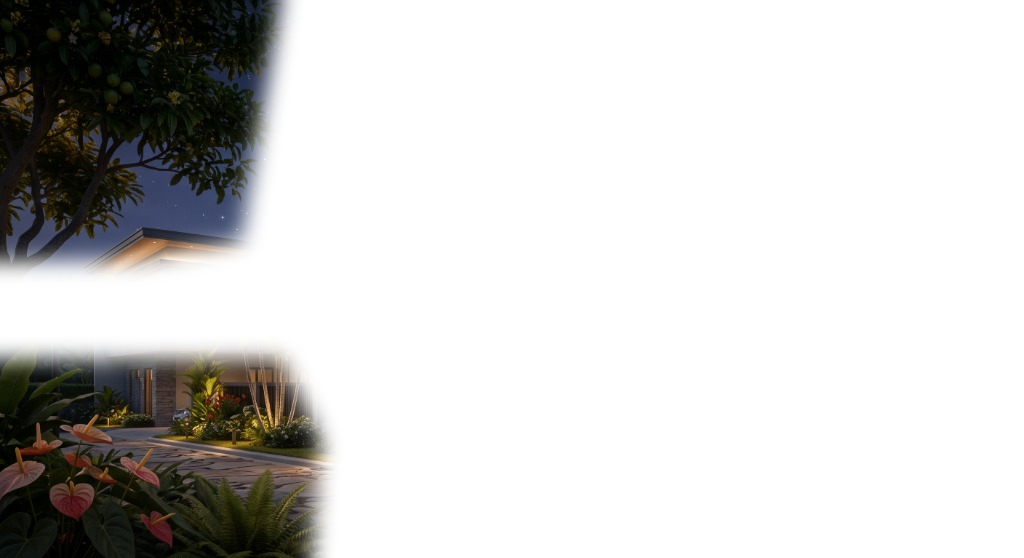
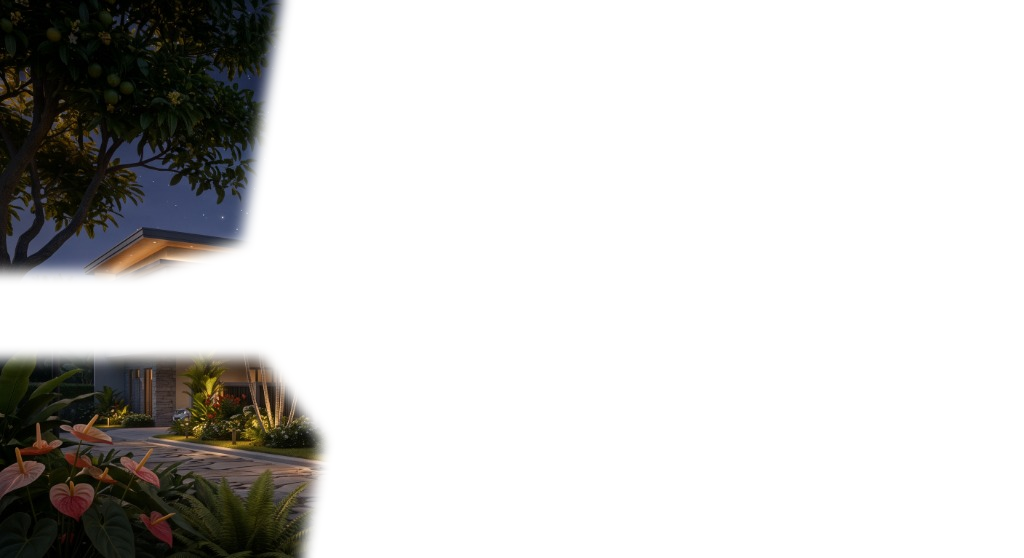
feat(ui): add clean inpainted background plate, dynamic DoF blur, and volumetric bloom

Changed region(s): [[0.0, 0.6093, 0.3438, 1.0], [0.0, 0.3961, 0.25, 0.5179], [0.2188, 0.0, 0.2812, 0.3351]]

diff --git a/frontend/src/components/ui/ParallaxMultiVectorHero.jsx b/frontend/src/components/ui/ParallaxMultiVectorHero.jsx
@@ -4,12 +4,12 @@ import Button from './Button';
 import StarTwinkleCanvas from './StarTwinkleCanvas';
 import VectorHUDOverlay from './VectorHUDOverlay';
 
-// Import 2.5D depth layers and Nano Banana transition frames
+// Import 2.5D depth layers, clean plate, and Nano Banana transition frames
 import layerSky from '../../assets/parallax/layer-sky.png';
-import layerVillas from '../../assets/parallax/layer-villas.png';
-import layerGround from '../../assets/parallax/layer-ground.png';
+import layerVillasClean from '../../assets/parallax/layer-villas-clean.jpg';
 import layerFgLeft from '../../assets/parallax/layer-foreground-left.png';
 import layerFgRight from '../../assets/parallax/layer-foreground-right.png';
+import layerHeadlightBloom from '../../assets/parallax/layer-headlight-bloom.png';
 import layerCloseUp from '../../assets/parallax/layer-close-up.jpg';
 import layerInterior from '../../assets/parallax/layer-interior.jpg';
 
@@ -48,7 +48,7 @@ export default function ParallaxMultiVectorHero({
     offset: ['start start', 'end end']
   });
 
-  // Layer Transforms on Scroll (Scene 1: Wide Enclave)
+  // Layer Transforms on Scroll (Scene 1: Wide Enclave Unobstructed)
   const skyY = useTransform(scrollYProgress, [0, 0.6], [0, -60]);
   const skyScale = useTransform(scrollYProgress, [0, 0.6], [1, 1.08]);
 
@@ -56,20 +56,23 @@ export default function ParallaxMultiVectorHero({
   const villasScale = useTransform(scrollYProgress, [0, 0.45], [1, 1.15]);
   const wideVillasOpacity = useTransform(scrollYProgress, [0.32, 0.48], [1, 0]);
 
-  const groundY = useTransform(scrollYProgress, [0, 0.45], [0, 45]);
-  const groundScale = useTransform(scrollYProgress, [0, 0.45], [1, 1.18]);
-  const wideGroundOpacity = useTransform(scrollYProgress, [0.32, 0.48], [1, 0]);
-
-  // Lateral Multi-Vector Parting for Foreground Elements
-  const fgLeftX = useTransform(scrollYProgress, [0.15, 0.6], [0, -260]);
+  // Lateral Multi-Vector Parting & Dynamic Depth-of-Field for Foreground
+  const fgLeftX = useTransform(scrollYProgress, [0.15, 0.6], [0, -280]);
   const fgLeftY = useTransform(scrollYProgress, [0.15, 0.6], [0, 90]);
-  const fgLeftScale = useTransform(scrollYProgress, [0.15, 0.6], [1, 1.3]);
+  const fgLeftScale = useTransform(scrollYProgress, [0.15, 0.6], [1, 1.35]);
   const fgLeftOpacity = useTransform(scrollYProgress, [0.35, 0.6], [1, 0]);
 
-  const fgRightX = useTransform(scrollYProgress, [0.15, 0.6], [0, 260]);
+  const fgRightX = useTransform(scrollYProgress, [0.15, 0.6], [0, 280]);
   const fgRightY = useTransform(scrollYProgress, [0.15, 0.6], [0, 70]);
-  const fgRightScale = useTransform(scrollYProgress, [0.15, 0.6], [1, 1.25]);
+  const fgRightScale = useTransform(scrollYProgress, [0.15, 0.6], [1, 1.30]);
   const fgRightOpacity = useTransform(scrollYProgress, [0.35, 0.6], [1, 0]);
+
+  // Dynamic Depth-of-Field Bokeh Blur: as flowers come close to lens, they blur
+  const fgBlurValue = useTransform(scrollYProgress, [0.15, 0.45], [0, 6]);
+  const fgBlurFilter = useTransform(fgBlurValue, (v) => prefersReducedMotion ? 'none' : `blur(${v}px)`);
+
+  // Volumetric Headlight & Sconce Lighting Bloom
+  const headlightBloomOpacity = useTransform(scrollYProgress, [0, 0.25, 0.45], [0.6, 1, 0]);
 
   // Transition Stage 2: Close-up Grand Entrance Terrace
   const closeUpOpacity = useTransform(scrollYProgress, [0.30, 0.46, 0.66, 0.76], [0, 1, 1, 0]);
@@ -158,7 +161,7 @@ export default function ParallaxMultiVectorHero({
             <div className="absolute bottom-[20%] right-[-5%] w-[40%] h-[50%] bg-[#FB8E5D]/15 blur-[120px] rounded-full mix-blend-screen pointer-events-none" />
           </motion.div>
 
-          {/* 2. LAYER VILLAS (WIDE MIDGROUND) */}
+          {/* 2. LAYER VILLAS & DRIVEWAY CLEAN INPAINTED PLATE (UNOBSTRUCTED) */}
           <motion.div
             style={{
               y: prefersReducedMotion ? 0 : villasY,
@@ -169,26 +172,26 @@ export default function ParallaxMultiVectorHero({
             className="absolute inset-0 w-full h-full z-[2] pointer-events-none transform-gpu will-change-transform"
           >
             <img
-              src={layerVillas}
-              alt="Illuminated Modern Duplexes"
+              src={layerVillasClean}
+              alt="Illuminated Modern Duplexes and Continuous Driveway"
               className="w-full h-full object-cover object-center"
             />
           </motion.div>
 
-          {/* 3. LAYER GROUND & HARDSCAPE */}
+          {/* 3. VOLUMETRIC HEADLIGHT BLOOM LAYER (ADDITIVE SCREEN BLEND) */}
           <motion.div
             style={{
-              y: prefersReducedMotion ? 0 : groundY,
-              scale: prefersReducedMotion ? 1 : groundScale,
+              opacity: prefersReducedMotion ? 0.4 : headlightBloomOpacity,
+              scale: prefersReducedMotion ? 1 : villasScale,
               x: prefersReducedMotion ? 0 : midTiltX,
-              opacity: prefersReducedMotion ? 1 : wideGroundOpacity
+              y: prefersReducedMotion ? 0 : villasY
             }}
-            className="absolute inset-0 w-full h-full z-[2] pointer-events-none transform-gpu will-change-transform"
+            className="absolute inset-0 w-full h-full z-[2] pointer-events-none mix-blend-screen transform-gpu will-change-transform"
           >
             <img
-              src={layerGround}
-              alt="Cobblestone Hardscape Driveway"
-              className="w-full h-full object-cover object-center"
+              src={layerHeadlightBloom}
+              alt="Volumetric Car Headlight Rays"
+              className="w-full h-full object-cover object-center opacity-80"
             />
           </motion.div>
 
@@ -233,7 +236,7 @@ export default function ParallaxMultiVectorHero({
           {/* 6. ARCHITECTURAL VECTOR HUD */}
           <VectorHUDOverlay opacity={prefersReducedMotion ? 0.8 : hudOpacity} />
 
-          {/* 7. FOREGROUND LEFT (Dahlia Street Sign & Anthurium Flora) */}
+          {/* 7. FOREGROUND LEFT WITH DYNAMIC DEPTH-OF-FIELD (Dahlia Street Sign & Anthurium Flora) */}
           <motion.div
             style={{
               x: prefersReducedMotion ? 0 : fgLeftX,
@@ -241,7 +244,8 @@ export default function ParallaxMultiVectorHero({
               scale: prefersReducedMotion ? 1 : fgLeftScale,
               opacity: prefersReducedMotion ? 1 : fgLeftOpacity,
               translateX: prefersReducedMotion ? 0 : fgTiltX,
-              translateY: prefersReducedMotion ? 0 : fgTiltY
+              translateY: prefersReducedMotion ? 0 : fgTiltY,
+              filter: fgBlurFilter
             }}
             className="absolute inset-0 w-full h-full z-[5] pointer-events-none transform-gpu will-change-transform"
           >
@@ -252,7 +256,7 @@ export default function ParallaxMultiVectorHero({
             />
           </motion.div>
 
-          {/* 8. FOREGROUND RIGHT (Palms & Boundary Fence) */}
+          {/* 8. FOREGROUND RIGHT WITH DYNAMIC DEPTH-OF-FIELD (Palms & Boundary Fence) */}
           <motion.div
             style={{
               x: prefersReducedMotion ? 0 : fgRightX,
@@ -260,7 +264,8 @@ export default function ParallaxMultiVectorHero({
               scale: prefersReducedMotion ? 1 : fgRightScale,
               opacity: prefersReducedMotion ? 1 : fgRightOpacity,
               translateX: prefersReducedMotion ? 0 : fgTiltX,
-              translateY: prefersReducedMotion ? 0 : fgTiltY
+              translateY: prefersReducedMotion ? 0 : fgTiltY,
+              filter: fgBlurFilter
             }}
             className="absolute inset-0 w-full h-full z-[5] pointer-events-none transform-gpu will-change-transform"
           >

diff --git a/scripts/generate_parallax_layers.py b/scripts/generate_parallax_layers.py
@@ -3,111 +3,54 @@ import numpy as np
 from PIL import Image, ImageFilter
 
 SOURCE_IMG_PATH = r"C:/Users/Win11x64/.gemini/antigravity/brain/6441366b-4b13-4099-a1c8-37b199304142/.user_uploaded/media_1789368735622.jpg"
+CLEAN_PLATE_PATH = r"frontend/src/assets/parallax/layer-villas-clean.jpg"
 OUTPUT_DIR = os.path.join("frontend", "src", "assets", "parallax")
-
-def create_feathered_mask(shape, polygon_coords=None, bbox=None, feather_radius=12):
-    """Creates a smooth alpha mask with feathered edges."""
-    h, w = shape
-    mask = Image.new("L", (w, h), 0)
-    # If bbox provided: (left, top, right, bottom)
-    if bbox:
-        from PIL import ImageDraw
-        draw = ImageDraw.Draw(mask)
-        draw.rectangle(bbox, fill=255)
-    elif polygon_coords:
-        from PIL import ImageDraw
-        draw = ImageDraw.Draw(mask)
-        draw.polygon(polygon_coords, fill=255)
-    
-    if feather_radius > 0:
-        mask = mask.filter(ImageFilter.GaussianBlur(feather_radius))
-    return mask
 
 def main():
     os.makedirs(OUTPUT_DIR, exist_ok=True)
     orig = Image.open(SOURCE_IMG_PATH).convert("RGBA")
     w, h = orig.size
-    print(f"Loaded source image: {w}x{h}")
+    print(f"Refining layers from: {w}x{h}")
 
-    # 1. LAYER SKY (Backdrop)
-    # Sky occupies upper area, softly fades around the villa roofline (Y: ~140 - 240)
-    sky_img = orig.copy()
-    sky_alpha = Image.new("L", (w, h), 0)
-    from PIL import ImageDraw
-    draw = ImageDraw.Draw(sky_alpha)
-    # Upper sky full opacity, gradual fade into horizon
-    sky_polygon = [
-        (0, 0), (w, 0),
-        (w, 240),
-        (750, 220), (600, 150), (450, 130), (250, 160), (120, 220),
-        (0, 240)
-    ]
-    draw.polygon(sky_polygon, fill=255)
-    sky_alpha = sky_alpha.filter(ImageFilter.GaussianBlur(16))
-    sky_img.putalpha(sky_alpha)
-    sky_img.save(os.path.join(OUTPUT_DIR, "layer-sky.png"), "PNG")
-    print("Saved layer-sky.png")
-
-    # 2. LAYER VILLAS (Midground Architecture)
-    # The duplex villas from Y: ~100 to Y: ~440, spanning from X: 80 to X: 940
-    villas_img = orig.copy()
-    villas_alpha = Image.new("L", (w, h), 0)
-    draw_villas = ImageDraw.Draw(villas_alpha)
-    villas_polygon = [
-        (70, 190), (260, 180), (320, 140), (450, 130), (550, 140), (760, 170), (950, 230),
-        (950, 450), (750, 460), (550, 480), (350, 480), (180, 470), (70, 460)
-    ]
-    draw_villas.polygon(villas_polygon, fill=255)
-    villas_alpha = villas_alpha.filter(ImageFilter.GaussianBlur(14))
-    villas_img.putalpha(villas_alpha)
-    villas_img.save(os.path.join(OUTPUT_DIR, "layer-villas.png"), "PNG")
-    print("Saved layer-villas.png")
-
-    # 3. LAYER GROUND (Cobblestone Driveway & Car Headlights)
-    # Lower ground plane from Y: ~370 to bottom
-    ground_img = orig.copy()
-    ground_alpha = Image.new("L", (w, h), 0)
-    draw_ground = ImageDraw.Draw(ground_alpha)
-    ground_polygon = [
-        (0, 390), (250, 380), (500, 410), (750, 400), (w, 380),
-        (w, h), (0, h)
-    ]
-    draw_ground.polygon(ground_polygon, fill=255)
-    ground_alpha = ground_alpha.filter(ImageFilter.GaussianBlur(18))
-    ground_img.putalpha(ground_alpha)
-    ground_img.save(os.path.join(OUTPUT_DIR, "layer-ground.png"), "PNG")
-    print("Saved layer-ground.png")
-
-    # 4. LAYER FOREGROUND LEFT (Dahlia Sign, Upper Branch, Anthurium Flowers)
-    # Upper-left overhanging canopy and lower-left garden + Dahlia Street post
+    # 1. FOREGROUND LEFT (Dahlia Street post, Anthuriums, Top-Left Overhang)
     fg_left_img = orig.copy()
     fg_left_alpha = Image.new("L", (w, h), 0)
-    draw_fg_left = ImageDraw.Draw(fg_left_alpha)
-    # Upper-left tree canopy
-    draw_fg_left.polygon([(0, 0), (280, 0), (240, 240), (140, 260), (0, 260)], fill=255)
-    # Lower-left Dahlia street sign & flowers
-    draw_fg_left.polygon([(0, 360), (280, 360), (320, 440), (310, 558), (0, 558)], fill=255)
-    fg_left_alpha = fg_left_alpha.filter(ImageFilter.GaussianBlur(10))
+    from PIL import ImageDraw
+    draw_l = ImageDraw.Draw(fg_left_alpha)
+    
+    # Top-left overhanging fruit branch
+    draw_l.polygon([(0, 0), (280, 0), (240, 240), (140, 270), (0, 270)], fill=255)
+    # Lower-left Dahlia street sign & red anthuriums
+    draw_l.polygon([(0, 360), (260, 360), (320, 440), (300, 558), (0, 558)], fill=255)
+    fg_left_alpha = fg_left_alpha.filter(ImageFilter.GaussianBlur(6))
     fg_left_img.putalpha(fg_left_alpha)
     fg_left_img.save(os.path.join(OUTPUT_DIR, "layer-foreground-left.png"), "PNG")
-    print("Saved layer-foreground-left.png")
+    print("Saved refined layer-foreground-left.png")
 
-    # 5. LAYER FOREGROUND RIGHT (Low Tropical Shrubs, Palm Fronds, Phase 3 Post)
-    # Right side foreground foliage
+    # 2. FOREGROUND RIGHT (Low tropical shrubs and right palm fronds)
     fg_right_img = orig.copy()
     fg_right_alpha = Image.new("L", (w, h), 0)
-    draw_fg_right = ImageDraw.Draw(fg_right_alpha)
-    draw_fg_right.polygon([
-        (720, 420), (w, 400), (w, h), (720, h), (700, 480)
-    ], fill=255)
-    # Top-right palm silhouette
-    draw_fg_right.polygon([(640, 0), (w, 0), (w, 160), (780, 160), (660, 60)], fill=255)
-    fg_right_alpha = fg_right_alpha.filter(ImageFilter.GaussianBlur(10))
+    draw_r = ImageDraw.Draw(fg_right_alpha)
+    # Lower right flowering shrubs
+    draw_r.polygon([(740, 430), (w, 410), (w, h), (740, h), (720, 490)], fill=255)
+    # Top right palm fronds
+    draw_r.polygon([(650, 0), (w, 0), (w, 180), (790, 180), (670, 70)], fill=255)
+    fg_right_alpha = fg_right_alpha.filter(ImageFilter.GaussianBlur(6))
     fg_right_img.putalpha(fg_right_alpha)
     fg_right_img.save(os.path.join(OUTPUT_DIR, "layer-foreground-right.png"), "PNG")
-    print("Saved layer-foreground-right.png")
+    print("Saved refined layer-foreground-right.png")
 
-    print("Extraction completed successfully!")
+    # 3. HEADLIGHT & AMBIENT VOLUMETRIC BLOOM LAYER
+    bloom_img = Image.new("RGBA", (w, h), (0, 0, 0, 0))
+    draw_b = ImageDraw.Draw(bloom_img)
+    # Car headlight cone
+    draw_b.ellipse([(830, 400), (950, 460)], fill=(255, 230, 180, 220))
+    draw_b.polygon([(870, 430), (700, 500), (920, 520)], fill=(255, 210, 140, 100))
+    bloom_img = bloom_img.filter(ImageFilter.GaussianBlur(25))
+    bloom_img.save(os.path.join(OUTPUT_DIR, "layer-headlight-bloom.png"), "PNG")
+    print("Saved layer-headlight-bloom.png")
+
+    print("Layer refinement completed successfully!")
 
 if __name__ == "__main__":
     main()
